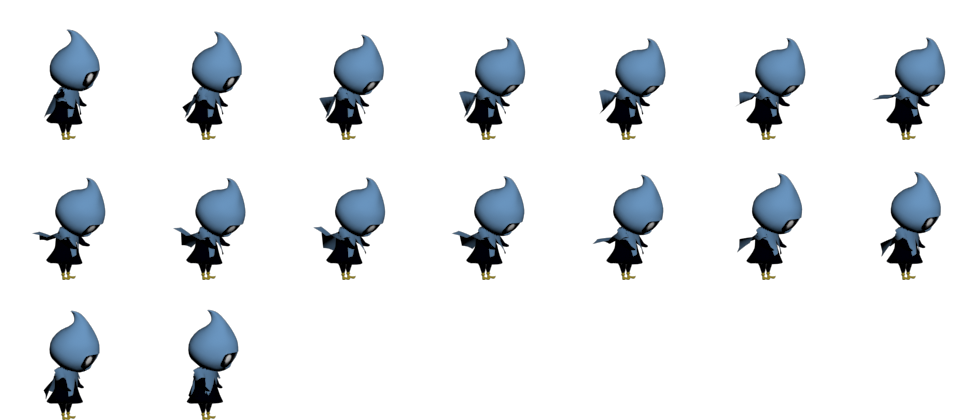
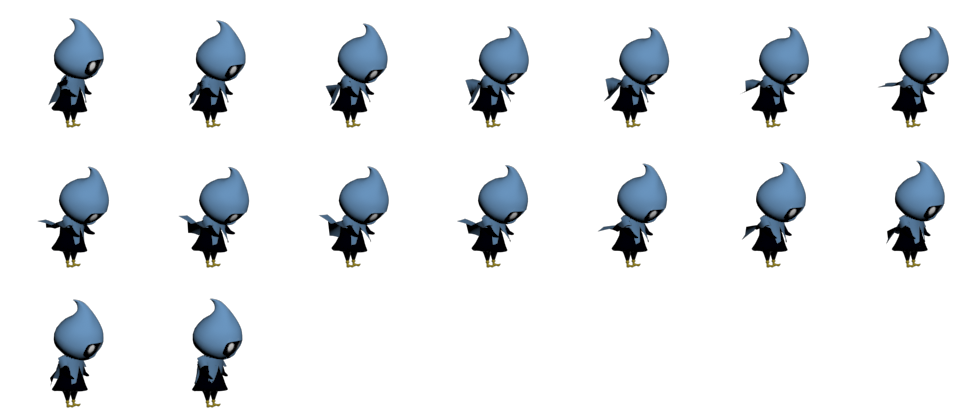
Resourceフォルダ：自機モーション画像差し替え

diff --git a/AMG08_INNOCENT_REAPER/Loads.cpp b/AMG08_INNOCENT_REAPER/Loads.cpp
@@ -35,12 +35,12 @@ namespace inr {
 
 	const graph::ResourceServer::DivGraphMap div{
 		{PKEY_IDOL , {"Resource/Player/r_stand.png", 7, 3, 15, PIMAGE_SIZE, PIMAGE_SIZE}},
-		{PKEY_RUN, {"Resource/Player/r_move.png", 7, 2, 9, PIMAGE_SIZE, PIMAGE_SIZE}},
+		{PKEY_RUN, {"Resource/Player/r_move.png", 7, 4, 25, PIMAGE_SIZE, PIMAGE_SIZE}},
 		{PKEY_DASH,{"Resource/Player/r_dash.png", 7, 1, 7, PIMAGE_SIZE, PIMAGE_SIZE}},
 		{PKEY_ROB , {"Resource/Player/r_rob.png", 7, 2, 13, PIMAGE_SIZE, PIMAGE_SIZE}},
 		{PKEY_GIVE, {"Resource/Player/r_give.png", 7, 3, 16, PIMAGE_SIZE, PIMAGE_SIZE}},
-		{PKEY_JUMP, {"Resource/Player/r_jump.png", 7, 1, 6, PIMAGE_SIZE, PIMAGE_SIZE}},
-		{PKEY_FALL, {"Resource/Player/r_fall.png", 7, 2, 10, PIMAGE_SIZE, PIMAGE_SIZE}},
+		{PKEY_JUMP, {"Resource/Player/r_jump.png", 7, 1, 7, PIMAGE_SIZE, PIMAGE_SIZE}},
+		{PKEY_FALL, {"Resource/Player/r_fall.png", 7, 1, 7, PIMAGE_SIZE, PIMAGE_SIZE}},
 		{PKEY_HIT, {"Resource/Player/r_hit.png", 7, 1, 7, PIMAGE_SIZE, PIMAGE_SIZE}},
 	};
 
